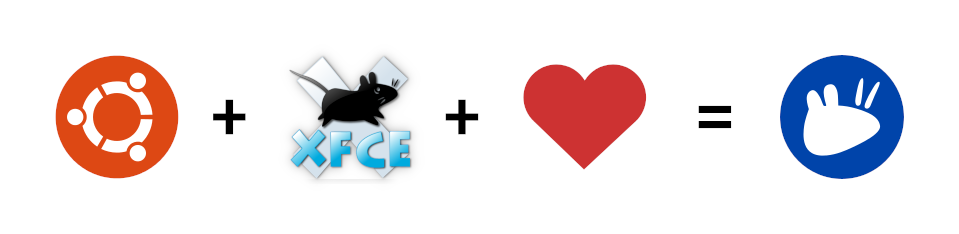
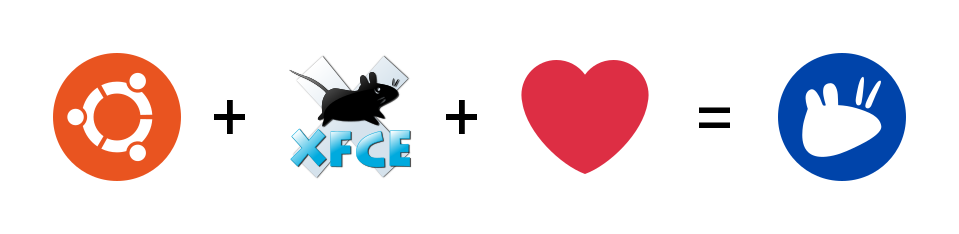
Chapter 1: 100%

diff --git a/CONTRIBUTING.md b/CONTRIBUTING.md
@@ -28,10 +28,10 @@ git checkout docs-refresh
 - [x] [1. Welcome](https://docs.google.com/document/d/1KpmN_tCOHaDwQgNtqyyt6DqZ7M0xSMCNTadORcY_Whw/edit?usp=sharing) (100%, `user-docs/C/index.xml`)
 - [ ] [2. Credits and License](https://docs.google.com/document/d/17v09cwXQLc-xs06inNz0KnEgllleUaJDPg4kV0dHF9Q/edit?usp=sharing) (0%)
 - [ ] [3. Appendix B - Creative Commons](https://docs.google.com/document/d/1zkAFZHw1d3OOgx3C2Bxjr4VduVKho423k0fnCWLc6XI/edit?usp=sharing) (0%)
-- [ ] [Chapter 1. What is Xubuntu?](https://docs.google.com/document/d/1kkq51aJLT-BdCogUS4INhrR4e_IRgLT7YlUAWL32m4g/edit?usp=sharing) (90%, `user-docs/C/what-is-xubuntu.xml`, correct image alignment, fix image transparency)
+- [x] [Chapter 1. What is Xubuntu?](https://docs.google.com/document/d/1kkq51aJLT-BdCogUS4INhrR4e_IRgLT7YlUAWL32m4g/edit?usp=sharing) (100%, `user-docs/C/what-is-xubuntu.xml`)
 - [x] [Chapter 2. Installation](https://docs.google.com/document/d/1EWQkW0aP6pk0LrSVlwFk8F2SIJietHNzX9g2Z34fbhE/edit?usp=sharing) (100%, `user-docs/C/installation.xml`)
 - [x] [Chapter 3. Introduction](https://docs.google.com/document/d/1wlzxgu3yUiLnUd5zoU0MgpI4x1spOo9N1F1wuuzVdl0/edit?usp=sharing) (100%, `user-docs/C/introduction.xml`)
-- [x] [Chapter 4. Default Applications](https://docs.google.com/document/d/1igFIwL0kRnxu3aAUC-yJeGJfDK1LVKYx24u6NXtw2gs/edit?usp=sharing) (91%, `user-docs/C/guide-default-apps.xml`)
+- [x] [Chapter 4. Default Applications](https://docs.google.com/document/d/1igFIwL0kRnxu3aAUC-yJeGJfDK1LVKYx24u6NXtw2gs/edit?usp=sharing) (100%, `user-docs/C/guide-default-apps.xml`)
 - [ ] [Chapter 5. Software Management](https://docs.google.com/document/d/1baVr_9CUEHd2c8y0_W0INc20c8LAKS8PNJknJnS8NpM/edit?usp=sharing) (90%, `user-docs/C/software-management.xml`, image placeholders)
 - [ ] [Chapter 6. Settings - Personalization](https://docs.google.com/document/d/1WC4y48PRXpjSUo8dAZHSgmN4BvnKK4LBkrjPWJDz848/edit?usp=sharing) (0%)
 - [ ] [Chapter 7. Settings - Hardware](https://docs.google.com/document/d/17ns9RcfTP98F2tD1X8sWF3bbOteQ0b4zUTstD0Ux8Lo/edit?usp=sharing) (0%)
